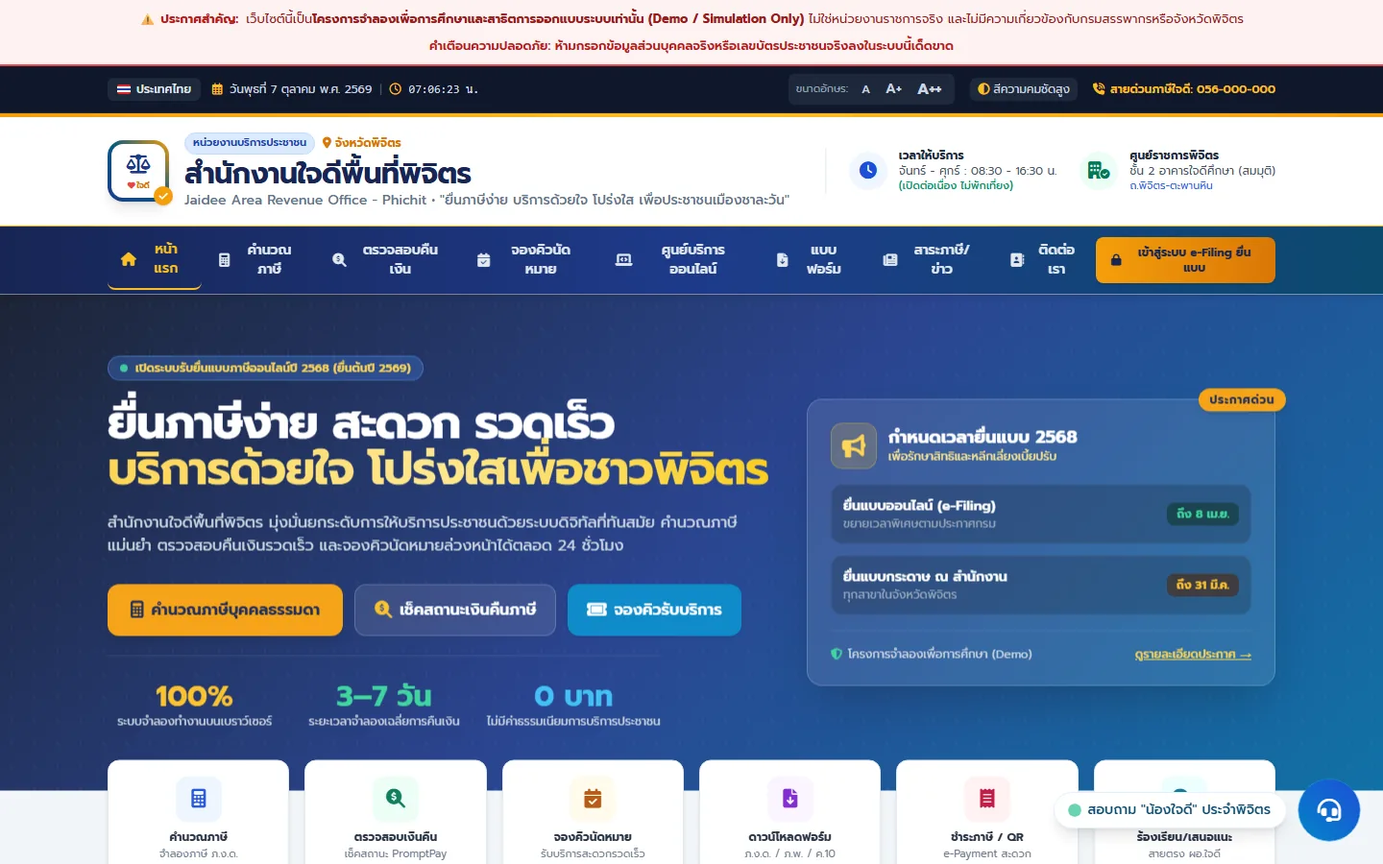
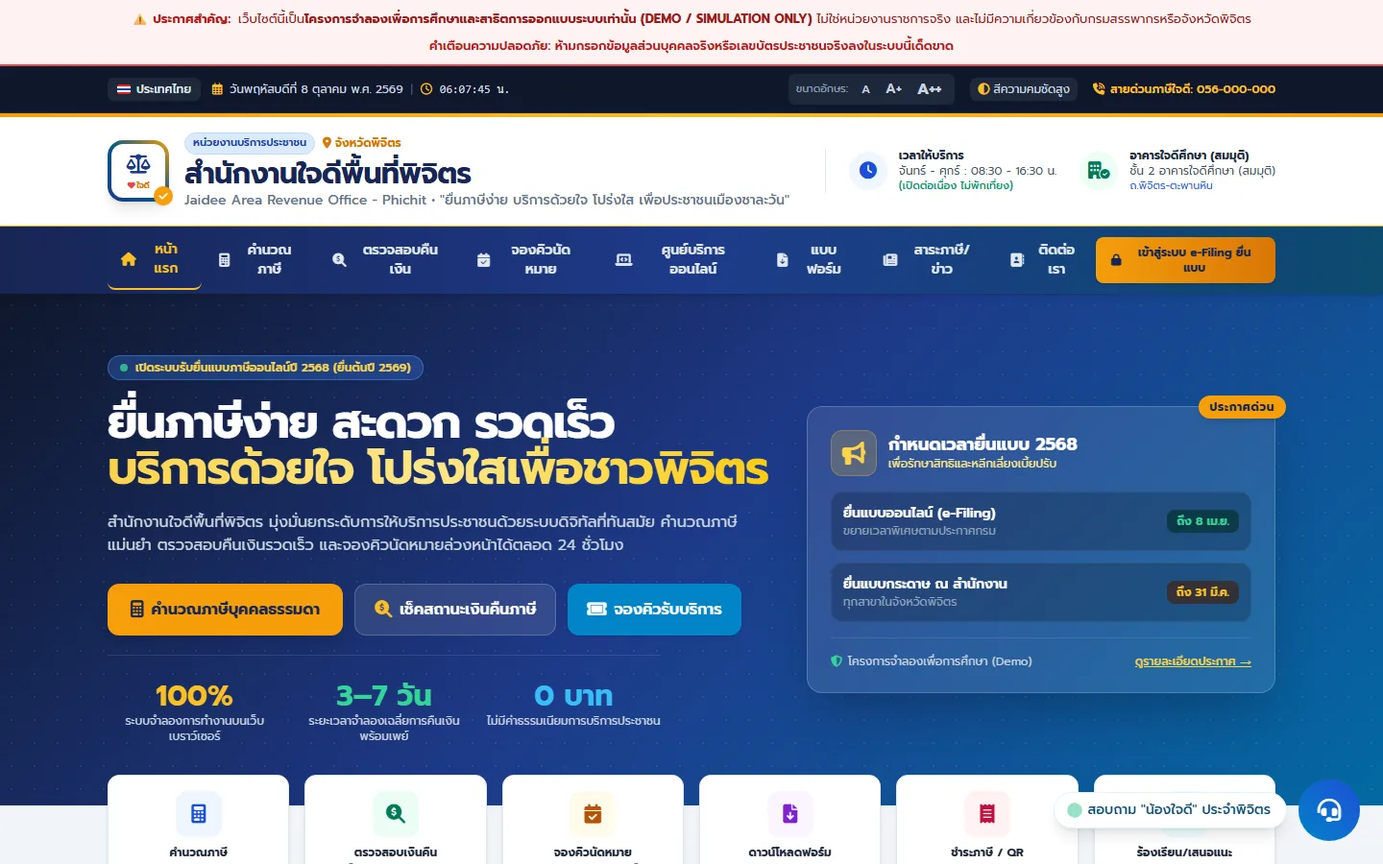
อัปเดตชุดแกลเลอรีหน่วยงาน: ภาพใหม่หลัง Gemini แก้ overflow และข้อความความโปร่งใส
- ถ่ายภาพ 8 ภาพใหม่ (มือถือที่ layout 390px จริง) แปลงเป็น WebP
- ปรับข้อความความโปร่งใสให้ตรงความจริง (แก้สามรอบ, วัดผลเอง, สิ่งที่ยังไม่ได้ทดสอบ)
- HANDOFF: บันทึกข้อจำกัด layout ขั้นต่ำ 504px ของ Edge headless

diff --git a/HANDOFF.md b/HANDOFF.md
@@ -1,10 +1,11 @@
 # HANDOFF — DESIGN.md Hub
 
 ไฟล์นี้สรุปสถานะโปรเจกต์ให้ผู้ที่มารับช่วงต่อ (คนหรือ AI) อ่านแล้วทำงานต่อได้ทันที
+อัปเดตล่าสุด: 8 ต.ค. 2026 (หลัง commit `c6303a7`)
 
 ## โปรเจกต์คืออะไร
 
-เว็บสถิตรวมไฟล์ `DESIGN.md` ของแบรนด์ดัง 74 แบรนด์ ให้ **ดูตัวอย่าง ดาวน์โหลด และผสมสไตล์** เพื่อเป็นแหล่งไอเดียดีไซน์
+เว็บสถิตรวมไฟล์ `DESIGN.md` ของแบรนด์ดัง 74 แบรนด์ ให้ **ดูตัวอย่าง ดาวน์โหลด ผสมสไตล์ และเทียบผลก่อน–หลัง** เพื่อเป็นแหล่งไอเดียดีไซน์
 สำหรับคนที่ไม่รู้จะออกแบบเว็บอย่างไร แล้วนำไฟล์ไปให้ AI สร้างเว็บในสไตล์ที่เลือก
 จัดทำเพื่อการเรียนรู้ ไม่แสวงหาผลกำไร
 
@@ -16,8 +17,8 @@
 ## คำสั่งที่ใช้บ่อย
 
 ```bash
-node scripts/build.mjs        # สร้างโฟลเดอร์ public/ (ต้องรันทุกครั้งที่แก้ src/ หรือ scripts/)
-node scripts/serve.mjs 4173   # เปิด http://localhost:4173 (รัน background)
+node scripts/build.mjs        # สร้างโฟลเดอร์ public/ (ต้องรันทุกครั้งที่แก้ src/ scripts/ curation.json recipes.json หรือ gallery-before-after/)
+node scripts/serve.mjs 4173   # เปิด http://localhost:4173 (รัน background; ถูกปิดเองได้ ให้ curl เช็คก่อนใช้)
 node scripts/sync.mjs <path>  # อัปเดต content/ จากสำเนา awesome-design-md
 ```
 
@@ -27,52 +28,88 @@ Vercel ใช้ `vercel.json` (Build: `node scripts/build.mjs`, Output: `public
 
 | ไฟล์ | หน้าที่ |
 |---|---|
-| `content/<brand>/DESIGN.md` | ข้อมูลต้นทาง 74 แบรนด์ (64 แบรนด์มี YAML tokens ครบ, 10 แบรนด์เป็นรูปแบบเก่า ดึงได้เฉพาะสีจากข้อความ) |
-| `scripts/build.mjs` | ตัวสร้างเว็บทั้งหมด: หน้าแรก, หน้าแบรนด์, `/patterns/`, `/mix/`, `/about/`, ไฟล์ดาวน์โหลด, `data/mix.json` |
-| `scripts/lib/yaml.mjs`, `md.mjs`, `theme.mjs` | parser YAML แบบย่อ, markdown→HTML (escape ปลอดภัย), ตัวคำนวณธีม/คอนทราสต์ |
-| `scripts/lib/landing.mjs` | อ่านสี/ตัวอักษร/เงา/คอมโพเนนต์/"ความรู้สึก" จาก DESIGN.md → ตัวแปร CSS ของหน้าตัวอย่าง (`buildPalette`, `detectFeel`, `categoryModel`) |
-| `src/layouts.mjs` | ไลบรารีเลย์เอาต์ 14 แบบ ใช้ได้ทั้งตอน build และในเบราว์เซอร์ (`?layout=<key>`) |
-| `src/mix.js` | แอปหน้า `/mix/` (เลือกสี/ตัวอักษร/รูปทรง/ความรู้สึกจากต่างแบรนด์ แล้วส่งออก DESIGN.md + tokens) |
-| `src/preview.css` | สไตล์หน้าตัวอย่างทั้งหมด (ใช้ตัวแปร CSS ที่ฝังใน `<html style>`) |
-| `src/style.css`, `src/app.js` | สไตล์และสคริปต์ของตัวเว็บเอง (ค้นหา/ฟิลเตอร์, แท็บ, สวิตช์เลย์เอาต์, คัดลอก) |
-| `curation.json` | สรุปภาษาไทย ป้ายความรู้สึก/การใช้งาน และ `tone` override รายแบรนด์ — **เขียนโดย AI จากเอกสาร ควรให้คนตรวจ** |
-| `categories.json`, `site.config.json` | หมวดธุรกิจของแบรนด์ / ชื่อเว็บและข้อความหน้าแรก |
+| `content/<brand>/DESIGN.md` | ข้อมูลต้นทาง 74 แบรนด์ (64 แบรนด์มี YAML tokens ครบ, 10 แบรนด์เป็นรูปแบบเก่า) |
+| `scripts/build.mjs` | ตัวสร้างเว็บทั้งหมด: หน้าแรก (ตัวช่วยเลือก 3 คำถาม, สูตรผสมแนะนำ, ส่วนก่อน–หลัง), หน้าแบรนด์, `/patterns/`, `/mix/`, `/compare/`, `/gallery/`, `/about/`, ไฟล์ดาวน์โหลด, `data/*.json` |
+| `scripts/lib/landing.mjs` | อ่านสี/ตัวอักษร/เงา/ความรู้สึกจาก DESIGN.md → ตัวแปร CSS ของหน้าตัวอย่าง; ฟอนต์ไทยคู่ละติน (`thaiFontFor`, `fontPlan`, `fontsUrl`); ข้อความตัวอย่างภาษาไทย (`COPY_TH` ฯลฯ); สี status ผ่าน `tuneStatus` |
+| `scripts/lib/theme.mjs` | สี/คอนทราสต์ + `tuneStatus` (ตรวจ hue และคอนทราสต์ ≥4.5:1 ของสี error/success/warning) |
+| `src/layouts.mjs` | เลย์เอาต์ 14 แบบ ใช้ได้ทั้ง build และเบราว์เซอร์ มีตัวแปลไทย/อังกฤษ (`toThai`, dictionary `TH`) ถ้าเพิ่มข้อความอังกฤษใหม่ต้องเพิ่มคำแปล |
+| `src/prompt.mjs` | ตัวสร้างคำสั่งให้ AI (ข้อห้ามกันหน้าตา AI, เลือกเครื่องมือ, ช่อง "เนื้อหาของฉัน") ใช้ร่วมกันทั้ง build และเบราว์เซอร์ (copy เป็น `assets/prompt.js`) |
+| `src/mix.js` | หน้า `/mix/`: ผสมสไตล์, ส่งออก DESIGN.md (มีส่วน Thai Typography) / tokens, ตัวตรวจคอนทราสต์หลายคู่สี, ปุ่มลอก "ดูตัวอย่าง/ตั้งค่า" บนมือถือ |
+| `src/compare.js`, `src/gallery.js` | หน้า `/compare/` (เทียบ 2–3 สไตล์) และ `/gallery/` (ก่อน–หลังหลายชุดโจทย์) |
+| `src/app.js`, `src/style.css`, `src/preview.css` | สคริปต์/สไตล์ของเว็บและของหน้าตัวอย่าง (preview.css มีกฎภาษาไทย `:lang(th)`) |
+| `curation.json` | สรุปไทย ป้ายความรู้สึก/การใช้งาน (รวมประเภทธุรกิจ food/health/edu/trade/gov) และ `tone` override — **เขียนโดย AI ควรให้คนตรวจ** |
+| `recipes.json` | สูตรผสมแนะนำ 6 สูตรบนหน้าแรก (ผมเลือกจากป้ายความรู้สึก เปิดดูภาพจริงแค่ 3 สูตร) |
+| `gallery-before-after/` | ข้อมูลแกลเลอรี: โฟลเดอร์ root = ชุดช่างไฟฟ้า, `cafe-befor-after/` = ชุดร้านกาแฟ (ชื่อโฟลเดอร์สะกด "befor" ใช้งานได้), `gov-before-after/` = ชุดหน่วยงาน แต่ละชุดมี `gallery.json`, `prompts.md`, `shots/*.webp` (PNG ต้นฉบับไม่ได้อยู่ใน git) |
+| `designmd-hub-ux-review.md` | รายงาน UX audit ที่ใช้เป็นแผนงาน (ยังไม่ได้ commit ตั้งใจไม่ใส่) |
 
-## สถานะฟีเจอร์ (ทำเสร็จและ deploy แล้ว)
+### รูปแบบของชุดโจทย์ในแกลเลอรี (`gallery.json`)
 
-- หน้าแรก: ค้นหา + ตัวกรอง 4 กลุ่ม (ความรู้สึก, เหมาะกับ, โทน, มุม), สรุปไทยทุกแบรนด์, จำตัวกรองใน URL
-- หน้าแบรนด์: ตัวอย่างหน้าเว็บ (สลับเดสก์ท็อป/แท็บเล็ต/มือถือ และ 14 เลย์เอาต์), แท็บ สี (บอกว่าใช้ตรงไหน) / คำสั่งให้ AI / ตัวอักษร / รูปทรง / คอมโพเนนต์ / ลักษณะเด่นและ Do-Don't / เอกสารเต็ม, ดาวน์โหลด DESIGN.md + tokens.css + tokens.json
-- `/patterns/`: แกลเลอรีเลย์เอาต์ 14 แบบ (ชื่อโครงหน้าอ้างอิง https://html-layout-patterns.netlify.app/ ของเจ้าของโปรเจกต์ เทมเพลตเขียนใหม่)
-- `/mix/`: ผสมสไตล์จากหลายแบรนด์ + สีหลักของตัวเอง + ส่งออก DESIGN.md/tokens.css/tokens.json + คำสั่งให้ AI + ลิงก์แชร์
+`id`, `title`, `business`, `brief_file` (prompts.md: บล็อกโค้ดที่ 1 = โจทย์, 2 = คำสั่ง "ก่อน" (มี `[โจทย์ร่วม]` ได้), 3 = คำสั่ง "หลัง"; บูลเล็ตใต้หัวข้อ "หมายเหตุเรื่องความโปร่งใส" แสดงบนหน้า), `generator`, `created`, `observation[]`, `items[]` (รายการ "ก่อน" = ไม่มี `style` และไม่มี `mix_link`; "หลัง" = มี `style` หรือ `mix_link`/`name`), แต่ละรายการมี `shots` (desktop/mobile × fold/full), `notes`, ถ้าจะโฮสต์หน้า HTML จริงใส่ `html` + `extra_files`, ถ้าจะให้ดาวน์โหลดใส่ `files`
+
+## สถานะฟีเจอร์ (deploy แล้ว ณ `c6303a7`)
+
+- หน้าแรก: ค้นหา + ตัวกรอง (ความรู้สึก, เหมาะกับ รวมประเภทธุรกิจไทย, โทน, มุม), **ตัวช่วยเลือกสไตล์ 3 คำถาม** (เลือกแบบสีหลักไม่ซ้ำกัน), **สูตรผสมแนะนำ 6 สูตร**, **ส่วนก่อน–หลัง** ใต้ hero, ปุ่ม "+ เทียบ" บนการ์ด
+- หน้าแบรนด์: ตัวอย่างหน้าเว็บ 14 เลย์เอาต์ × ไทย/English × เดสก์ท็อป/แท็บเล็ต/มือถือ, แท็บ สี/คำสั่งให้ AI (เลือกเครื่องมือ + กรอกเนื้อหา)/ตัวอักษร/รูปทรง/คอมโพเนนต์/กฎ/เอกสาร, ดาวน์โหลด DESIGN.md (ต่อท้ายส่วน Thai Typography) + tokens.css (`--font-*`, `--font-thai-*`) + tokens.json
+- `/mix/`: ผสมสไตล์ + ภาษาตัวอย่าง + ตัวตรวจคอนทราสต์ทุกคู่ + คำสั่ง AI ตามเครื่องมือ
+- `/compare/`, `/patterns/`, `/gallery/` (3 ชุดโจทย์; ชุดร้านกาแฟโฮสต์หน้า HTML จริงได้; ชุดช่างไฟฟ้า = HTML + ภาพ; ชุดหน่วยงาน = ภาพเท่านั้น ห้ามโฮสต์ HTML เพราะมีช่องกรอกเลขบัตรประชาชนจำลองและเลียนแบบเว็บหน่วยงานรัฐ)
+
+## งานที่กำลังค้างอยู่ (อ่านส่วนนี้ก่อน)
+
+### 1. ชุดแกลเลอรี "หน่วยงาน" รอ Gemini แก้รอบที่ 2
+
+- ไฟล์ต้นทางของ Gemini อยู่นอก repo ที่ `D:\www\gemini-befor-after` (มี `.git` ของตัวเอง; `before/`, `after/`, root `index.html` = สำเนา after, `css/`, `DESIGN.md`, `tokens.css`) ตอนนี้มีการแก้ที่ยังไม่ commit ในนั้น (5 ไฟล์)
+- รอบแรก Gemini ลบข้ออ้างองค์กรจริง/ใส่แถบ "Demo / Simulation"/ทำให้ขอบเขตเท่ากัน แล้วผู้ช่วย Claude แก้เล็กน้อยด้วยมือ (ตัวเลขสถิติหน้า "ก่อน", ข้อความอ้างกรมสรรพากร 3 จุด, ช่องว่างเมนู "หลัง") ภาพที่ **ขึ้นเว็บอยู่ตอนนี้ถ่ายหลังการแก้ของผู้ช่วย Claude** และข้อความความโปร่งใสในชุดนี้ระบุเรื่องนี้ไว้
+- รอบสอง สั่งให้ Gemini แก้ 3 ข้อ (ตัดข้ออ้างจริงที่เหลือ, เมนู/class Tailwind ที่ไม่ได้นิยาม, ตรวจข้อมูลจำลอง) Gemini รายงานว่าผ่านทุกข้อ **แต่ผมวัดแล้ว หน้า "หลัง" ที่ 390px ล้นแนวนอน (scrollWidth 511 > 375/390)** จนปุ่ม CTA และปุ่มแฮมเบอร์เกอร์หลุดจอ ตัวการน่าจะเป็น `flex-shrink: 0` ที่ Gemini เพิ่มให้โลโก้/ปุ่ม CTA หน้า "ก่อน" ก็ล้น ~7px (ที่ 390px และ 1440px) ตั้งแต่ต้น
+- ที่ทำต่อ: ส่งคำสั่งแก้ overflow ให้ Gemini (คำสั่งที่ร่างไว้: แก้เฉพาะ overflow, `flex-shrink:0` ใช้เฉพาะ ≥1200px, วัด `scrollWidth <= clientWidth` ที่ 360/390/768/1024/1200/1440 แล้วรายงานตัวเลขดิบ) → เมื่อได้ผล **วัดซ้ำเองและดูภาพมือถือ** → ถ่ายภาพ 8 ภาพใหม่ (ดูสูตรถ่ายภาพด้านล่าง) → แปลง WebP → แก้ `gov-before-after/gallery.json` และ `prompts.md` (เปลี่ยนข้อความจาก "ผู้ช่วย Claude แก้ด้วยมือ" เป็นข้อความที่ตรงความจริง: แก้เบื้องต้นด้วยมือ แล้วให้ Gemini แก้ต่ออีก 2 รอบ และใส่ข้อความคำสั่งที่ใช้จริงถ้าผู้ใช้ส่งมา) → build ตรวจ → รอคำสั่ง commit/push
+- ถ้าผู้ใช้ไม่รอ: ใช้ภาพที่ push ไปแล้วต่อได้ (ข้อความความโปร่งใสบนเว็บยังตรงกับภาพชุดนั้น)
+
+### 2. สถานะ git
+
+- `main` ตรงกับ `origin/main` ที่ `c6303a7` (push แล้ว)
+- ยังไม่ commit: `HANDOFF.md` ฉบับนี้, `designmd-hub-ux-review.md` (ตั้งใจไม่ใส่), PNG ภาพถ่ายหน้าจอใน `gallery-before-after/**/shots/*.png` (ตั้งใจไม่ใส่ มีแต่ `.webp`)
+- ยังไม่ได้เปิดดูเว็บจริงบน Vercel หลัง deploy ล่าสุด (ฟอนต์ไทยจาก Google Fonts, ปุ่มคัดลอก/ดาวน์โหลดบนโดเมนจริง, มือถือจริง)
 
 ## ข้อตกลงการทำงาน (ที่เจ้าของโปรเจกต์ใช้มาตลอด)
 
-1. **push ขึ้น `main` เฉพาะเมื่อสั่ง** ("push เลย") ปกติจะรายงานผลก่อนแล้วถามว่าจะ push ไหม
-2. ตรวจผลจริงก่อนรายงาน: build ผ่าน, ลิงก์ภายในไม่เสีย, ไม่มี `undefined/NaN`, วัดการล้นแนวนอนที่ 375px/768px, ดูภาพในเบราว์เซอร์ และ **บอกตรงๆ ว่าอะไรยังไม่ได้ทดสอบ**
-3. ข้อความบนเว็บต้องไม่อ้างว่าหน้าตัวอย่างเป็นหน้าจริงของแบรนด์ — เป็นหน้าทั่วไปที่ใส่ tokens ของแบรนด์ (สี ตัวอักษร มุม เงา ความรู้สึก)
-4. เว็บเป็นภาษาไทย ส่วนเอกสารต้นฉบับและไฟล์ที่ส่งออกเป็นอังกฤษ
-5. ไม่ใช้โลโก้/ชื่อจริงของแบรนด์ในหน้าตัวอย่าง และมีข้อความปฏิเสธความเกี่ยวข้องท้ายหน้า
+1. **commit/push เฉพาะเมื่อสั่ง** ("commit และ push") ปกติจะรายงานผลก่อนแล้วถามว่าจะ push ไหม ท้ายข้อความ commit ใส่ `Co-Authored-By: Claude Sonnet 5.5 <noreply@anthropic.com>` ตามที่ระบบกำหนด
+2. ตรวจผลจริงก่อนรายงาน: build ผ่าน, ลิงก์ภายในไม่เสีย, ไม่มี `undefined/NaN`, วัดการล้นแนวนอนที่ 375px, ดูภาพในเบราว์เซอร์ และ **บอกตรงๆ ว่าอะไรยังไม่ได้ทดสอบ**
+3. **ไม่เชื่อรายงานของ AI ตัวอื่นโดยไม่วัดเอง** (Gemini/Codex เคยรายงานผ่านทั้งที่มีบั๊ก) และไม่สร้างภาพหรือข้อมูลปลอมแทนผลจริง
+4. ข้อความบนเว็บต้องไม่อ้างว่าหน้าตัวอย่างเป็นหน้าจริงของแบรนด์ และต้องไม่อ้างเกินจริงเรื่องผล "ก่อน–หลัง" (ชุดร้านกาแฟมีข้อสังเกตว่า "ก่อน" ก็ดีอยู่แล้วและความต่างมาจากคำสั่งด้วย)
+5. เว็บเป็นภาษาไทย ส่วนไฟล์ที่ส่งออกเป็นอังกฤษ ไม่ใช้โลโก้/ชื่อจริงของแบรนด์ในตัวอย่าง
+6. **ไม่โฮสต์หน้าที่เลียนแบบหน่วยงานรัฐหรืออ้างองค์กรจริง** ชุดแกลเลอรีที่เกี่ยวข้องใช้ภาพถ่ายหน้าจอที่เห็นแถบ disclaimer และไม่มีปุ่มเปิดหน้า HTML จริง
+7. ผลงานที่ AI ตัวอื่นสร้าง ถ้าผู้ช่วยแก้เอง ต้องเปิดเผยบนหน้าแกลเลอรีว่าใครแก้อะไร
 
 ## ข้อควรระวังทางเทคนิค (เคยพลาดมาแล้ว)
 
-- **Shell heredoc ทำให้ `\n` และ `\\` ในโค้ด JS/regex เพี้ยน** (กลายเป็นขึ้นบรรทัดใหม่จริง) → แก้ไฟล์ด้วยเครื่องมือ Edit/Write แทน หรือเขียนสคริปต์ Python ลงไฟล์ก่อนรัน
-- ไฟล์ `assets/*` ใช้แฮชเนื้อหาต่อท้าย URL (`?v=...`) เพื่อกันแคชค้าง — อย่าถอดออก (เคยทำให้ผู้ใช้เห็น CSS เก่า)
-- หน้า `/mix/` กับกรอบตัวอย่างสื่อสารผ่าน `postMessage`: ต้องรับสัญญาณตั้งแต่ต้นและส่งซ้ำจนกว่ากรอบตอบ `applied` (เคยค้าง "กำลังโหลดตัวอย่าง…" บนเว็บจริงเพราะ race)
-- ตัวตรวจ "ความรู้สึก" (`detectFeel`) อ่านจากถ้อยคำในเอกสาร เดาพลาดได้ — ตรวจเป็นระดับประโยคและกันคำปฏิเสธไว้แล้ว แต่ควรตรวจภาพจริงเมื่อเพิ่มกฎ
-- ตัวตรวจ `tone` ของไฟล์รูปแบบเก่าใช้ regex หาคำใบ้ ("near-black" เฉยๆ ไม่นับ เพราะมักหมายถึงสีตัวอักษร) — override รายแบรนด์ได้ใน `curation.json` ฟิลด์ `tone`
-- Windows: เปิดเซิร์ฟเวอร์ background แล้วแจ้งเตือน "failed exit code 127" เมื่อปิดเอง ไม่ใช่ error
+- **line ending:** ไฟล์ส่วนใหญ่เป็น CRLF (`style.css` เป็น LF; `preview.css`, `theme.mjs` ปนกัน) การแก้ไฟล์ด้วย Python บน Windows แบบ text mode จะเขียน CRLF ทั้งไฟล์ และ `sed -i` ก็เคยแปลงทั้งไฟล์ → diff บวมทั้งไฟล์ ให้เปิดด้วย `open(path, encoding='utf8', newline='')` และต่อท้ายด้วย EOL เดียวกับไฟล์ ตรวจด้วย `git diff --stat --ignore-space-at-eol`
+- **เครื่องมือ shell:** heredoc ที่มี `'''` ทำให้คำสั่งพัง และ `\n`/`\\` ในโค้ด JS เพี้ยน → เขียนไฟล์สคริปต์ด้วยเครื่องมือ Write/Edit แล้วค่อยรัน Python ใน `/tmp` เปิดจาก Python บน Windows ไม่เจอ (ใช้พาธสัมพัทธ์ในโปรเจกต์ แล้วลบทิ้ง)
+- ชื่อคลาส CSS: `.rec` ชนกับป้าย "เหมาะกับสไตล์นี้" ในหน้าแบรนด์ (ใช้ `rec-card` สำหรับสูตรผสม); `<figure>` ต้อง `margin:0`
+- ไฟล์ `assets/*` ใช้แฮชเนื้อหาท้าย URL (`?v=...`) อย่าถอด; หน้า `/mix/` ต้องทนลำดับการโหลดของ `postMessage` (ส่งซ้ำจนกรอบตอบ `applied`)
+- `detectFeel` และตัวตรวจ `tone` ของไฟล์รูปแบบเก่าอ่านจากถ้อยคำ เดาพลาดได้ — ดูภาพจริงเมื่อเพิ่มกฎ override ได้ใน `curation.json`
+- **WebP กว้าง/สูงสุด 16,383px** ภาพมือถือทั้งหน้าของ "หลัง" (ชุดหน่วยงาน) ยาว 16,400px จึงตัดท้าย 17px
+- เซิร์ฟเวอร์ background บนเครื่องนี้ถูกปิดเองบ่อย (แจ้งเตือน exit code 4/127 ไม่ใช่ error ของโค้ด) เช็คด้วย `curl` ก่อนใช้
+- หน้าตัวอย่างภาษาไทยใช้ dictionary แปล (`TH` ใน `layouts.mjs`): ข้อความอังกฤษใหม่ในเลย์เอาต์ต้องเพิ่มคำแปลเอง
+
+## สูตรถ่ายภาพหน้าจอสำหรับแกลเลอรี (Windows ไม่ต้องติดตั้งอะไรเพิ่ม)
+
+1. เปิดเซิร์ฟเวอร์ชั่วคราวที่โฟลเดอร์ของหน้าที่จะถ่าย: `python -m http.server 4181` (รัน background แล้วปิดทิ้งตอนเสร็จ)
+2. วัดความสูงหน้าจริง: ใน Browser pane สร้าง iframe กว้าง 1440 และ 390 แล้วอ่าน `document.documentElement.scrollHeight` (+10–20px)
+3. ถ่ายด้วย Edge: `msedge --headless=new --disable-gpu --hide-scrollbars --force-device-scale-factor=<1|2> --window-size=W,H --virtual-time-budget=10000 --screenshot=<out.png> <url>` ได้ภาพ fold = 1440×900 และ 390×844 (@2x), full = สูงตามหน้า (มือถือทั้งหน้าใช้ @1x ถ้าหน้ายาวเกินขีด WebP)
+   - **ข้อควรระวัง:** Edge headless มี layout ขั้นต่ำ ~504px (`--window-size=390` ได้ `innerWidth=504` แล้วภาพถูกครอปเหลือ 390 ทำให้เนื้อหาขวาสุดหาย/ดูเหมือนล้น และ `scrollWidth` วัดได้ ~511) สำหรับภาพมือถือให้ถ่ายหน้าห่อ (`<iframe style="width:390px;height:Hpx;border:0">`) ด้วย `--window-size=504,H` แล้วครอปซ้าย 390px (@2x = 780px) ความสูงจริงหาจากแถวสุดท้ายของส่วนท้ายหน้าที่เป็นสีเข้ม (ถ่ายเผื่อสูงไว้ก่อนแล้วตัดพื้นขาวทิ้ง)
+4. แปลง PNG→WebP ด้วย Pillow (`quality=82, method=6`) เก็บเฉพาะ `.webp` ใน git
 
 ## งานค้าง / ไอเดียต่อ (เรียงตามที่แนะนำ)
 
-1. **ไล่ตรวจ `curation.json`** (สรุปไทย ป้ายความรู้สึก/การใช้งาน) และแบรนด์ที่โทน/สีในหน้าตัวอย่างยังไม่เหมือนจริง — ส่งภาพเว็บจริงเทียบเพื่อปรับกฎ
-2. **ทดสอบเอา DESIGN.md จากหน้า Mix ไปให้ AI สร้างเว็บจริง** ดูว่าไฟล์ขาดข้อมูลอะไร แล้วปรับตัวสร้างไฟล์ใน `src/mix.js` (`buildDesignMd`)
-3. หน้าเปรียบเทียบ 2 แบรนด์เคียงกัน
-4. ปุ่มดาวน์โหลดทั้งหมดเป็น zip (ต้องทำ zip เองหรือเพิ่ม dependency)
-5. ทดสอบเลย์เอาต์บนมือถือจริง (ตอนนี้ทดสอบด้วยการจำลองจอและวัดการล้นเท่านั้น), ทดสอบปุ่มคัดลอกบนเว็บจริง
-6. เพิ่มเลย์เอาต์/รูปแบบ hero อื่นๆ ตามลักษณะเอกสาร, ปรับตัวอย่างให้เฉพาะแบรนด์มากขึ้น (ปัจจุบันเป็นเทมเพลตกลางที่ใส่ tokens)
-7. แปลคำอธิบายต้นฉบับ/กฎ Do-Don't เป็นไทย (ตอนนี้แสดงอังกฤษต้นฉบับ)
+1. **ปิดงานชุดหน่วยงาน** (ดูหัวข้อ "งานที่กำลังค้างอยู่") แล้วเปิดดูเว็บจริงบน Vercel หลัง deploy
+2. **แกลเลอรีก่อน–หลังชุดอื่น/เครื่องมืออื่น:** ตอนนี้ใช้ Claude (ช่างไฟ), Codex (ร้านกาแฟ), Gemini (หน่วยงาน); ยังไม่มี ChatGPT/Cursor/Lovable/v0; ชุดร้านกาแฟยังแก้ได้ถ้าจะให้ "ก่อน" สั่งแบบชี้นำน้อยกว่า
+3. **ไล่ตรวจ `curation.json` และ `recipes.json`** (จับคู่แบรนด์กับประเภทธุรกิจ, สูตรผสม 6 สูตร) ส่งภาพเว็บจริงเทียบเพื่อปรับกฎ
+4. **ทดสอบคำสั่ง/ไฟล์ส่งออกกับ AI จริงหลายเครื่องมือ** ว่าข้อห้ามกันหน้าตา AI และส่วน Thai Typography ช่วยจริงไหม แล้วปรับ `src/prompt.mjs` / `buildDesignMd` ใน `src/mix.js`
+5. ปุ่มดาวน์โหลดทั้งหมดเป็น zip (ต้องทำ zip เองหรือเพิ่ม dependency)
+6. ทดสอบเลย์เอาต์และปุ่มคัดลอกบนมือถือจริง (ตอนนี้ทดสอบด้วยการจำลองจอและวัดการล้นเท่านั้น); หน้าแรกเพิ่มขนาดขึ้นจากการ์ด+ส่วนใหม่ ยังไม่ได้วัดความเร็วบนมือถือจริง
+7. เก็บกวาด: line ending ปนกันใน `preview.css`/`theme.mjs`; แปลงภาพ hero ร้านกาแฟ PNG 2.5MB (ต้องแก้ `src` ในไฟล์ที่ Codex สร้าง — ตอนนี้ยังไม่ได้แตะต้นฉบับ); เปลี่ยนชื่อโฟลเดอร์ `cafe-befor-after` เป็นสะกดถูก (ต้องแก้ path ใน gallery ด้วย); แปลคำอธิบายต้นฉบับ/กฎ Do-Don't เป็นไทย; เพิ่มเลย์เอาต์/hero ที่เฉพาะแบรนด์มากขึ้น
 
 ## โปรเจกต์อื่นที่เกี่ยวข้อง (ยังไม่ได้ push ที่ไหน)
 
-- `D:\www\awesome-design-md-main\datacomrd-hub` = สำเนา clone ของ https://github.com/surakchatketniam-a11y/datacomrd-hub ที่ปรับสไตล์ไว้ใน branch `redesign-sample` (เปลี่ยนสเกลสี indigo เป็นม่วง `#533afd`, ชั้นสไตล์ใหม่ต่อท้ายบล็อก `<style>`) พร้อมไฟล์แพตช์ `D:\www\awesome-design-md-main\datacomrd-redesign.patch` — **ยังไม่ได้ push หรือ deploy** (ต้องทดสอบด้วยบัญชีจริงทุกแท็บก่อน)
-- `D:\www\awesome-design-md-main\demo\` = หน้าตัวอย่างเดี่ยวที่ทำไว้ช่วงแรก (Stripe/Linear/Apple, ระบบทะเบียนครุภัณฑ์, ตัวอย่างปรับดีไซน์ระบบ IT) ไม่เกี่ยวกับ repo นี้
+- `D:\www\awesome-design-md-main\datacomrd-hub` = สำเนา clone ของ https://github.com/surakchatketniam-a11y/datacomrd-hub ที่ปรับสไตล์ไว้ใน branch `redesign-sample` พร้อมไฟล์แพตช์ `D:\www\awesome-design-md-main\datacomrd-redesign.patch` — **ยังไม่ได้ push หรือ deploy** (ต้องทดสอบด้วยบัญชีจริงทุกแท็บก่อน)
+- `D:\www\awesome-design-md-main\demo\` = หน้าตัวอย่างเดี่ยวที่ทำไว้ช่วงแรก ไม่เกี่ยวกับ repo นี้
+- `D:\www\gemini-befor-after` = ผลงานของ Gemini ชุดหน่วยงาน (นอก repo มี `.git` ของตัวเอง) ดูหัวข้อ "งานที่กำลังค้างอยู่"

diff --git a/gallery-before-after/gov-before-after/prompts.md b/gallery-before-after/gov-before-after/prompts.md
@@ -49,5 +49,8 @@
 - ทั้งสองหน้าสร้างด้วย Gemini 3.8 Flash (High) บน Antigravity ตามที่ Gemini ระบุเอง เมื่อวันที่ 7 ต.ค. 2026 ไม่มีภาพประกอบ (ใช้ CSS และ SVG ที่โมเดลเขียนเอง)
 - หน้า "หลัง" สร้างต่อจากหน้า "ก่อน" โดยสั่งให้คงหน่วยงานและเลย์เอาต์เดิม ต่างจากชุดอื่นที่แต่ละหน้าสร้างแยกกัน และคำสั่ง "หลัง" ระบุส่วนที่ต้องมีและกติกาเพิ่มเติม ความต่างจึงมาจากทั้งไฟล์ DESIGN.md คำสั่งที่ละเอียดขึ้น และการสร้างต่อจากหน้าเดิม
 - หลังสร้าง ทั้งสองหน้าถูกแก้ตามข้อสังเกตของผู้ดูแลเว็บนี้ 3 ประเด็น: (1) ลบชื่อองค์กรจริงที่ถูกอ้างเป็นภาคี และข้ออ้างมาตรฐาน DGA/ITA (2) เปลี่ยนที่ตั้งและเบอร์โทรเป็นข้อมูลสมมุติ และใส่แถบเตือนว่าเป็นโครงการจำลอง ห้ามกรอกข้อมูลจริง (3) ปรับหน้า "หลัง" ให้มีระบบเท่ากับ "ก่อน" (แชทบอท แบบฟอร์ม 6 แบบ ข้อเสนอแนะ แถบการเข้าถึง) 
-- ก่อนถ่ายภาพ ผู้ช่วย Claude แก้ผลงานของ Gemini ด้วยมือเล็กน้อยตามคำสั่งผู้ดูแลเว็บนี้ ไม่ได้ให้ Gemini แก้: หน้า "ก่อน" เปลี่ยนตัวเลขสถิติสมมติ (48,500+ / 3 วัน / 98.6%) เป็นข้อความจำลองชุดเดียวกับหน้า "หลัง" (100% / 3–7 วัน / 0 บาท) และตัดข้อความที่อ้างว่าเป็นระบบหรือมาตรฐานของกรมสรรพากรออก 3 จุด (ปุ่ม e-Tax, ปุ่ม e-Donation, หมายเหตุแบบฟอร์ม) หน้า "หลัง" เพิ่มกฎ CSS ที่ HTML ใช้แต่ไม่ได้นิยามไว้ (ช่องว่างเมนู gap-5 และอื่นๆ), ให้ลิงก์เมนูไม่ขึ้นบรรทัดใหม่ และให้เมนูเดสก์ท็อปแสดงเมื่อหน้าจอกว้างอย่างน้อย 1200px (จากเดิม 1040px) ไม่ได้แก้สี ฟอนต์ หรือเนื้อหาอื่น ภาพที่แสดงถ่ายหลังแก้แล้วทั้งหมด
+- หลังจากนั้นผลงานถูกแก้อีกสองรอบก่อนถ่ายภาพชุดนี้ โดยผู้ดูแลเว็บนี้ตรวจและวัดผลเอง ไม่ได้เชื่อรายงานของ Gemini: รอบแรก ผู้ช่วย Claude แก้ด้วยมือเล็กน้อย รอบสอง ให้ Gemini แก้ต่อ (ตัดข้ออ้างที่เกี่ยวกับองค์กรจริงที่ยังเหลือ, แก้เมนูและ class ที่ไม่ได้นิยาม, ตรวจข้อมูลจำลอง) และรอบสาม ให้ Gemini แก้เฉพาะการล้นแนวนอนบนมือถือ ที่ผู้ดูแลเว็บวัดได้ว่ายังไม่ผ่านทั้งที่ Gemini รายงานว่าผ่าน ผมไม่มีข้อความคำสั่งรอบสองและสามฉบับเต็ม จึงสรุปเฉพาะสิ่งที่ขอ และไม่แยกว่าการแก้บรรทัดไหนมาจากใครในรอบสอง
+- สิ่งที่ผู้ช่วย Claude แก้ด้วยมือ (รอบแรก): หน้า "ก่อน" เปลี่ยนตัวเลขสถิติสมมติ (48,500+ / 3 วัน / 98.6%) เป็นข้อความจำลองชุดเดียวกับหน้า "หลัง" (100% / 3–7 วัน / 0 บาท) และตัดข้อความที่อ้างว่าเป็นระบบหรือมาตรฐานของกรมสรรพากรออก 3 จุด (ปุ่ม e-Tax, ปุ่ม e-Donation, หมายเหตุแบบฟอร์ม) หน้า "หลัง" เพิ่มกฎ CSS ที่ HTML ใช้แต่ไม่ได้นิยามไว้ (ช่องว่างเมนู gap-5 และอื่นๆ), ให้ลิงก์เมนูไม่ขึ้นบรรทัดใหม่ และให้เมนูเดสก์ท็อปแสดงเมื่อหน้าจอกว้างอย่างน้อย 1200px (จากเดิม 1040px) ไม่ได้แก้สี ฟอนต์ หรือเนื้อหาอื่น
+- การแก้การล้นแนวนอน (รอบสาม โดย Gemini): หน้า "หลัง" เอา `flex-shrink: 0` ออกจากโลโก้และกล่องปุ่มหัวเว็บ (ใช้เฉพาะจอ ≥1200px) และให้กริดหดได้ หน้า "ก่อน" ตั้ง `overflow-x: hidden` ที่ `html` ผู้ดูแลเว็บวัดซ้ำที่ความกว้าง 360–1440px ไม่พบองค์ประกอบที่เลยขอบจอ (ยกเว้นตารางภาษีที่เลื่อนแนวนอนได้ในกล่องของตัวเอง) และดูภาพที่ 390px แล้ว ยังไม่ได้ทดสอบบนมือถือจริงหรือเบราว์เซอร์อื่นนอกจาก Edge/Chromium
+- ภาพที่แสดงทั้งหมดถ่ายหลังการแก้ทุกรอบ ภาพมือถือถ่ายที่ความกว้างหน้าจอ 390px จริง
 - เว็บนี้แสดงเฉพาะภาพหน้าจอ ไม่เปิดหน้า HTML จริงของชุดนี้ เพราะในหน้ามีช่องกรอกเลขประจำตัวประชาชนจำลองและมีลักษณะคล้ายเว็บหน่วยงานรัฐ
